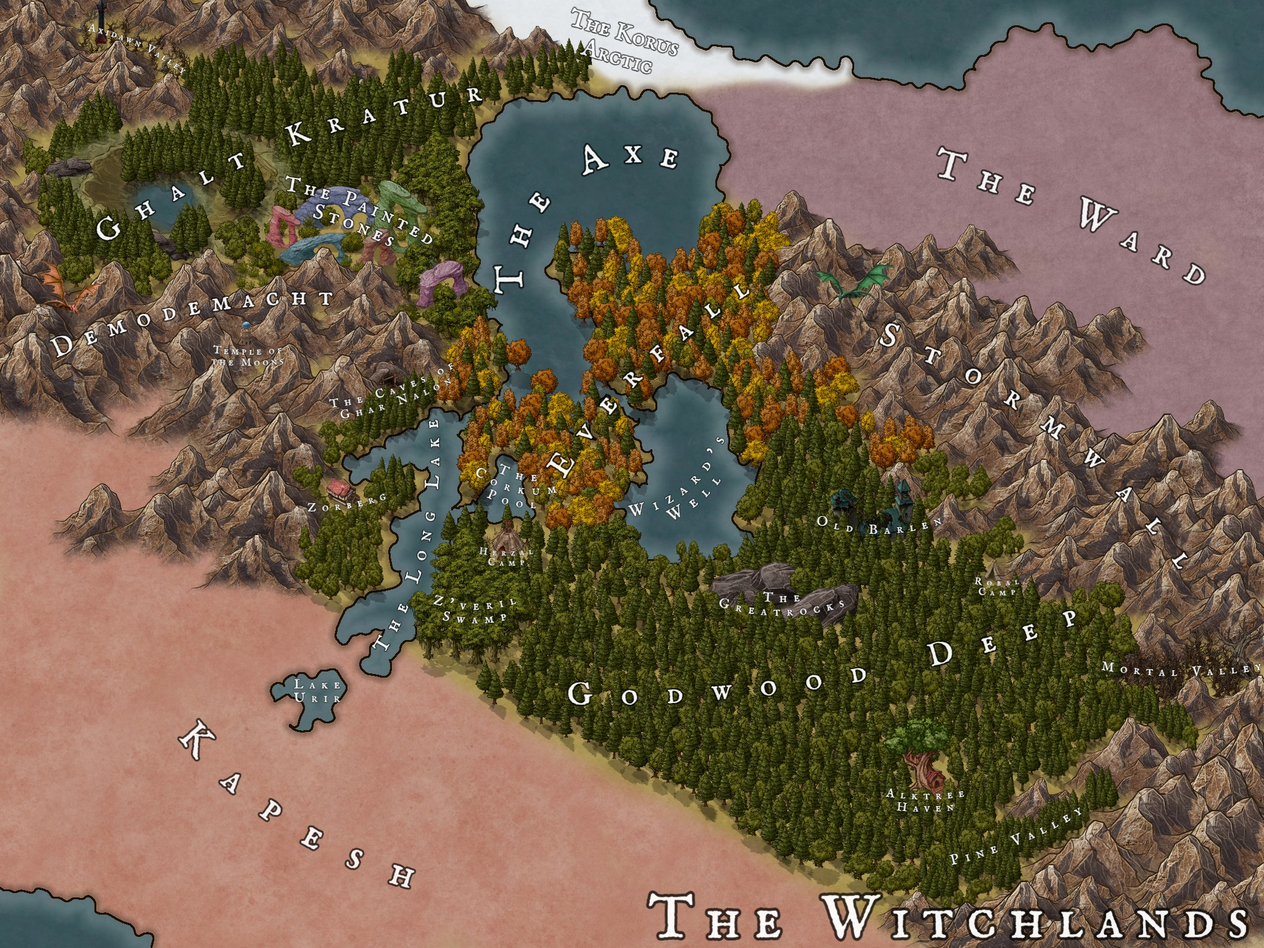
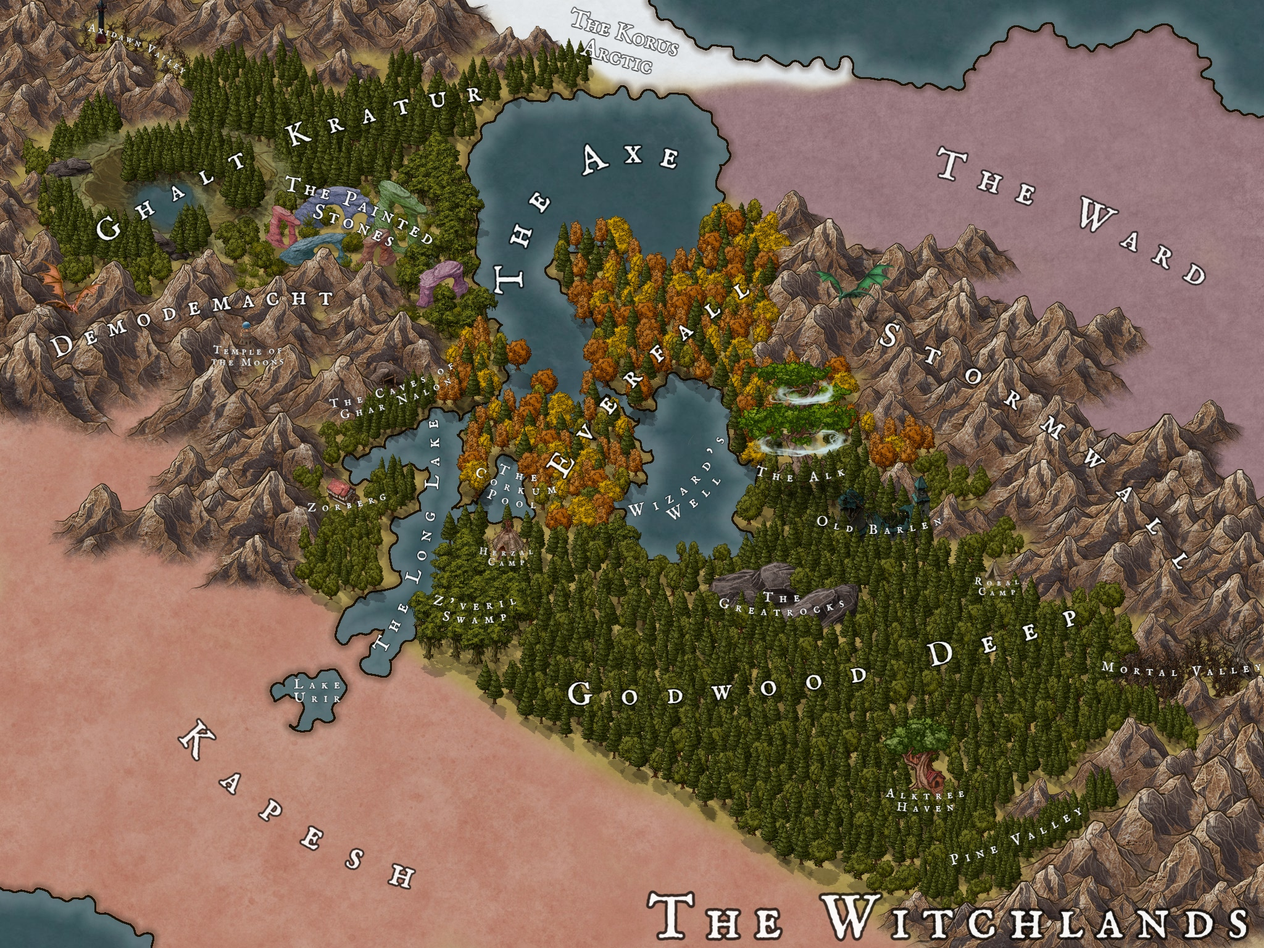
publishing new Zol content

Changed region(s): [[0.5625, 0.375, 0.75, 0.5625]]

diff --git a/content/Audran.md b/content/Audran.md
@@ -1,6 +1,90 @@
 ---
 title: "Audran"
----## The Destruction of Audran - The Day of Madness
+---*The City of Ruins, The Lost Capital Reborn*
+![[Audran skyline 1.png]]
+
+The largest city in all of [[Zol]]. [[Audran]] was once the prosperous capital of [[Laenwalde]]. Seen by all of [[Zol]] as a beacon of light and wonder. So large you could not walk from end to end in a day, not counting getting lost or stopping. Its wonderous empire stood proud for many generations, until one of the darkest days in [[Zol]]'s history: The Day of Madness.
+
+The Day of Madness was a sudden event that involved [[The Castle of Bodies]] suddenly attacking [[Audran]]. Until that point, no one even knew [[The Castle of Bodies]] existed. Its presence drove the vast majority of the city's people into a blood frenzy. People blindly fought, killed and destroyed anything they could. The whole event only lasted a short while, but wholly ruined the city and its people.
+
+The capital was abandoned, but slowly over time people returned and sought refuge in its ruins. Disorganized and ramshackle rebuilding began. Eventually it created a new and unique place where the great city once stood. It would never become the capital again, but is now home to a very rich, and diverse culture.
+
+![[audran.png]]
+
+One part ruined, one part rebuilt, one part ramshackle slum. The city is fast paced crowded, overpopulated, exciting, dangerous, and full of opportunity.
+
+## Overview
+| Aspect | Description |
+|-|-|
+| Main Opportunity | The city was re-founded by individuals who chose to make a new life in the ruins of what once was. It is a city by the people, and for the people. Despite the many attempts by the crown to instill order within [[Audran]], it remains chaotic and free. It is a place where anything, good or bad, can occur. |
+| Main Challenge | Governing the city is extremely difficult. Its ever sprawling, overcrowded streets make a perfect environment for crime and chaos. Straying where one should not within [[Audran]] is very dangerous. |
+| Climate | Temperate |
+| Cuisine | Cultivated Fruits, Farmed Goods, Flatbread and rice based meals |
+| Export | Investments, medicine, coffee, dyes, textiles, paper, books, and ink |
+| Size | Massive |
+| City Leader | High Lord Beld Bordana |
+| Primary Language(s) | Common |
+| Majority Racial Group(s) | None |
+| Majority Religion(s) | None |
+
+## Major Features
+| Feature | Description |
+|-|-|
+| Distinguishing Features | A massive lakeside city, textured with aged destruction that has been used as a foundation for new structure. |
+| Architecture | A ramshackle, half-destroyed city. New buildings of differing materials and styles have been erected using the ruins of the ancient destruction as foundations. Some buildings have a strange half old stone, half new lumber look. Others are entirely new, and many remain with entire sections missing. To accommodate the large population, tents and other makeshift structures can be found everywhere one can logically (and sometimes illogically) be placed. |
+| Color(s) | Purple, Grey, and Blue |
+| Symbolism | A tower with a window in the shape of an arched door |
+| Defenses | High walls |
+
+## People Groups
+| Group | Type | Description |
+|-|-|-|
+| Nobility | Social Class | The wealthy members of [[Audran]] society. However these nobles are not like nobility of other cities half made up of conventional nobles of good rapport, and half made up of eclectic individuals who made some great success in the city. These two types of nobles blend in court to create a fast paced, gossip-filled knot within society. |
+| Commoners | Social Class | The working class of the city. Poverty can move like waves through the fluid economy of the city. It is always a challenge for the common folk to keep their heads above water. |
+| Beggars | Social Class | Individuals who could not keep up with, or getting a foot hold within the city's merciless environment. Many beggars exist within the city. Life is hard and competitive amongst this class. |
+| Slaves | Social Class | Those charged with significant crimes who are forced to work and serve in recompense. |
+| Criminals | Criminal | A massive criminal network exits within the city. Many gangs, alliances, and rivalries fill the alleys of the city with violence and thievery. The underbelly of [[Audran]] is a world of its own, and must be traversed carefully. Its structure is nearly as complex and ever changing as its noble courts. Some of its major players are: The Roving Gang, The Tiefling Mafia, The Unruly, The Nakaza, and many more. |
+| Inquisitors | Law Enforcement | A class of highly trained individuals from [[The First Bastion]], sent to bring order to the city. These high ranking members of the city guard aim to clean up the streets and eliminate crime. However they have been at it for quite some time with little net change. |
+| Students | Academic Station | Students who attend [[Charenbridge]], an academic institution of the [[Arcanum]], a branch of [[The University]]. These individuals are known to come from all backgrounds (usually low born) as [[Charenbridge]] admits all students and does not charge tuition. |
+| Pedagogue | Academic Station | Staff who teach at [[Charenbridge]], an academic institution of the [[Arcanum]], a branch of [[The University]]. These individuals vary from practiced writers, to skilled and deadly [[Arcanists]]. |
+
+## Goods and Services
+| Name | Type | Description |
+|-|-|-|
+| Castle Defiance | Keep | The city's main keep |
+| Audran Station | Train Station | The city's train station |
+| Audran Convergence | Teleportation Circle | The city's main teleportation circle. Located within the keep. |
+| Upper District | Inner-walled District | An inner walled section of the city that has been entirely restored. Home to the highest degree of nobility, shops, and taverns. |
+| [[Charenbridge]] | College | An academic institution of [[The University]] that exists as the most well-known manifestation of the [[Arcanum]]. At this institution, anyone can obtain an education at no cost. However if they wish to have a long and fruitful academic career, they must perform well in their classes, and commit many hours of work to [[The University]]. Located in Charside, a district of the city nicknamed after the college. |
+| Pulp Markets | Market | A market frequented by students |
+| Port Squares | Market | The markets located closet to the lakeports |
+| Tent Alleys | Market | The many many markets located all over the city in narrow alleyways that sell things that would surprise even the [[Gods]]. |
+| The Upper Market | Market | The fine market located in the upper district |
+| Zalp's | Tavern | A tavern loved by many-a-student |
+| The Surviving Inn | Tavern | A tavern built in a structure that withstood The Day of Madness. Very beloved amongst commoners |
+| The Adorian | Tavern | A fine alehouse in the upper district where many skilled performers will attend |
+| Quiet Peter's | Tavern | A shady tavern located in the basement of a mostly ruined building in Catyard. Known as a sort of demilitarized zone amongst the local criminal groups where fighting of any sort is not allowed. |
+| The Dens | Tavern | A name for the many pop up tent based taverns one finds only in [[Audran]] |
+
+## Authority
+The city is ruled by High Lord Beld Bordana. A young dwarven ruler who many feel is incompetent. He is charged with taming the untamable city of [[Audran]]. Luckily for him he has the Inquisitors at his disposal.
+
+The crown does what it can to strike order within the city, but it is like herding cats. No matter the rules and efforts put into stilling the chaos, someone finds a way around it. Or if there isn't a way around it, they make one.
+
+In some parts of the city, the criminals are as much of a ruling force as the crown, if not more. It does citizens well to keep their noses clean in regards to both parties.
+
+### Laws
+The city subscribes to the [[Laenwalde Laws]].
+
+## Modern Importance
+In current day and age, the city is a massive place where anyone can slip away into. They will find some notch or corner they fit into within its wall. It may not be a good palace, but they will fit in somewhere.
+
+## Historical Importance
+Once the beacon of prosperity within The Three Corners, the city was struck with a horrible destruction during an event called The Day of Madness. 
+
+*For more information on this please read the below section named: The Destruction of Audran - The Day of Madness*
+
+## The Destruction of Audran - The Day of Madness
 In the late [[First Age]], [[Audran]] was the largest and most prosperous city in all of [[Zol]]. As the capital of [[Laenwalde]], it acted as a hub of commerce, politics, academia, and culture. This beacon of hope changed instantly when [[The Castle of Bodies]] suddenly appeared in the sky on The Day of Madness.
 
 Before the event, none knew of [[The Castle of Bodies]]' existence. One of the strange [[Void Gods]], with a particular goal of random destruction.
@@ -13,9 +97,9 @@ The heroes did all they could to wound the strange being, in a manner similar to
 
 Those who were driven mad by it suddenly regained their senses, but the damage had been done. In a matter of hours [[Audran]] was put to ruins. The memory of the event left the city with the brand of being cursed.
 
-The vast majority left the city, and it remained a ghost town for generations. However, most of its buildings were relatively intact, as [[The Castle of Bodies]]' efforts largely damaged the population directly. Eventually, the wounds turned to scars, people began to return to the city.
+The vast majority left the city, and it remained a ghost town for generations. However, a fair portion of its buildings were reasonably intact. Eventually, the wounds turned to scars, people began to return to the city.
 
-Originally only unorganized factions of bandits, forlorn, and nomads. As more people arrived a society naturally began to reform. Eventually the governing bodies of [[Laenwalde]] recognized it as a city once again.
+Originally only unorganized factions of bandits, forlorn, and nomads. As more people arrived a society naturally began to reform. After a few generations, the governing bodies of [[Laenwalde]] recognized it as a city once again.
 
 It had been rebuilt to a degree, Fallen down sections of stone walls were rebuilt with lumber, rubble piles were stacked and reused as building material, and waterways were cleared of pollutants.
 

diff --git a/content/Penthe.md b/content/Penthe.md
@@ -1,0 +1,80 @@
+---
+title: "Penthe"
+---*The Angel Blessed City of Glory
+![[Penthe skyline.png]]
+
+[[Penthe]] (pronounced *pen-thay*), is a city built to honor the [[Zolaen Gods]]. A home so beautiful, it has garnered the endorsement of [[Iyowne]], a powerful angel. Founded in the mid [[First Age]] by a group of devout warrior monks called [[The Undari]], [[Penthe]] is now a beautiful city located on the slopes of the Se'dir River Valley. It is the westmost city in all the Three Corners.
+
+![[penthe.png]]
+
+A powerful [[Iron Light]] pump moves water up from the Se'dir River to the city's highest point, where it then flows back down through constructed canals and waterfalls all throughout the area. This infrastructure gives much utility to the population of the city and their day to day operations. Of these operations, the most notable is [[The First Bastion]], a wing of the [[Observum]] where warriors of [[Laenwalde]] are trained to defend their kingdom, and uphold the will of the [[Zolaen Gods]].
+
+## Overview
+| Aspect | Description |
+|-|-|
+| Main Opportunity | The city is a valiant, holy, and beautiful place. Its churches and [[The First Bastion]] provide for all who are in need. The most skilled fighters of [[Laenwalde]]'s army are trained within the city. For those who are in the city's favor it is one of the safest places within [[Zol]]. |
+| Main Challenge | The city worships the [[Zolaen Gods]] to a degree that is borderline fanatical, this stems from the city's history and its association with [[The First Bastion]]. In its current society these shared beliefs create a community for those who hold them, but drives away anything else. Non-believers, sinners, or those who do not devote themselves well enough are shunned as outsiders. Myth and rumor paints a darker image where these outsiders are not only shunned, but culled. However there is little proof of this, and would depend heavily on the religious-political state of the city's leadership. |
+| Climate | Temperate/Dry |
+| Cuisine | Cultivated Fruits, Farmed Goods, Flatbread and rice based meals |
+| Export | Military Training |
+| Size | Medium |
+| City Leader | High Lord Draezus Wolf |
+| Primary Language(s) | Common |
+| Majority Racial Group(s) | None |
+| Majority Religion(s) | Zolaen-Centric |
+
+## Major Features
+| Feature | Description |
+|-|-|
+| Distinguishing Features | River valley, Inner-city canals and waterfalls |
+| Architecture | Very tall buildings, Archways, Banners, Stained-glass windows |
+| Color(s) | Purple, Grey, and Blue |
+| Symbolism | A vertical, point-down sword with an overarching curve from the far left of the hilt that goes up over the pommel and ends at the far right of the hilt. Forming the shape of a doorway with the curve and guard combined. |
+| Defenses | [[The First Bastion]], high walls, many patrols, heavy wall mounted artillery, airship fleet |
+
+## People Groups
+| Group | Type | Description |
+|-|-|-|
+| Commoners | Social Class | The working class of the city. The city has the one of the lowest percentages of uncared for citizens in all of [[Zol]] due to the resources provided by the churches and [[The First Bastion]] |
+| Nobility | Social Class | The cities upper-crust. Most of which sponsor the churches and [[The First Bastion]] by means of economic resources, or other types of power. |
+| The Shunned | Non Zolaen-Centric/Secular Group | Citizens who do not fit the ideals of the church. Members of society who are outcast by others for things like differing beliefs, partial devotion, or sins. Those who are shunned by the masses are rarely welcomed back into their previous circles. Even those close to one who has been deemed an outsider will be treated differently. |
+| The Devout | Religious (Zolaen-Centric) Group | Citizens who follow the Zolaen-Centric beliefs of the church very closely, or at least appear to from the outside view. This group makes up the vast majority of the population. |
+| Clergy | Religious group | Those who make a career of performing work for the church, or the more clerical aspects of [[The First Bastion]] |
+| [[The First Bastion]] | Military/Religious Guild | A devout, Zolaen-Centric group of trained warriors who fight under the banner of [[Laenwalde]] as the kingdom's most skilled warriors. Helmed by [[Blade Lord Kive Bidell]]. The institution's aim is to train powerful warriors and clerics to defend and uphold the kingdom and the will of the [[Zolaen Gods]]. The guild exists as a branch of the [[Observum]] under the umbrella of [[The University]]. |
+
+## Goods and Services
+ | Name | Type | Description |
+ |-|-|-|
+ | Cliffkeep | Keep | The city's keep, located on a large rock outcropping on the valley's southern slope. |
+ | Penthe Station | Train Station | The city's train station |
+ | Penthe Convergence | Teleportation Circle | The city's main teleportation circle, located on the grounds of Cliffkeep |
+ | Bastion Convergence | Teleportation Circle | [[The First Bastion]]'s teleportation circle |
+ | Highsquare | Market | The city's nicest market for the wealthiest individuals. Located next to Cliff keep at the city's highest peak upon its horn-shaped outcropping. It is also the location of the [[Iron Light]] pump which sends water flowing down all through out the city |
+ | The Ivy Markets | Market | The city's more common markets. The various markets, divided by good sold are located within Ivy Gate |
+ | Iyowne's Pressing | Tavern | A tavern frequented by the nobility of the city. Said to be located nearest to the visitation point of the angel [[Iyowne]] |
+ | Khalborit's Alehouse | Tavern | An Alehouse popular with Devout commoners of the city. Located within Smokepole |
+ | Cottonheath Inn | Tavern | A small and dingy inn, frequented by the shunned member's of the city's society. Music and conversation does not frequent this place like the other taverns of the city. Located at the rivers edge in Cottonheath. |
+ | [[The First Bastion]] | Guild | A valiant structure of golden, swirling adornment detailing and white stone. Located at the center of Victory. |
+
+## Authority
+The city is under rule of High Lord Draezus Wolf and his council. The city is known for respecting the crown of [[Laenwalde]] so truly and honorably, there are rhymes and jokes written about it.
+
+Second to the High Lord, is [[Blade Lord Kive Bidell]]. The Blade Lord is leader of [[The First Bastion]]. The Blade Lord responds only to the command of High Lords and the King himself.
+
+Beyond that, rank within the church is just as seriously as government rank. If a priest were to command something of you, it would be the same as if an officer were to. However you would have no *legal* precedent to follow it, just a serious societal on.
+
+### Laws
+The city subscribes to the [[Laenwalde Laws]].
+
+## Modern Importance
+In modern day, much of [[The University]]'s operations concerning the [[Observum]] occur within the city. [[The First Bastion]] focuses much of its resources on training adept fighters to venture out into [[Laenwalde]] and the world beyond to act on behalf of the King and the [[Zolaen Gods]].
+
+## Historical Importance
+When the city was originally founded by [[The Undari]], it was a place where martial skill was of great cultural importance. This ideal has transformed over time along with teaching of Zolaen-Centric beliefs to form a very devout people.
+
+So devout, it garnered the attention of [[Iyowne]], a powerful angel of [[The Watcher]]. In the late [[First Age]], the angel visited the city during sunset. He spoke well of the peoples devotion, and told them their city exemplified the ideals [[The Watcher]] aimed to instill all across [[Zol]]. Those who witnessed [[Iyowne]] we granted high station within the church.
+
+While some doubt the event ever taking place, its effect in the city's culture has remained strong event to modern day. The people of [[Penthe]] conserve old beliefs in an aim to stay true in the eyes of the [[Gods]].
+
+## Other Things of Note
+- The people of the city depend very little upon [[Apparatum]] and other magical objects. This is due to a widely held belief that those sorts of proclivities are not needed when one is cared for by the gods. Many generations ago they were outlawed, but convenience and abundance has eroded away those principals. Now most commoners will use them when necessary, and nobility tend to employ whatever they deem fit. The secondary effect to this is it is difficult to purchase things of this nature in the city. One is better of catching a train to [[Ryze]].

diff --git a/content/Laenwalde.md b/content/Laenwalde.md
@@ -2,24 +2,24 @@
 title: "Laenwalde"
 ---![[Laenwalde.jpg]]
 
-The Unified Kingdoms of the West. The largest political power in all of [[Zol]]. Laenwalde is a kingdom formed of the island of [[Arcadia]], the green hills of [[Eucaren]], and the mysterious sands of [[Saen]].
+The Unified Kingdoms of the West. The largest political power in all of [[Zol]]. Laenwalde is a kingdom formed of the island of [[Arcadia]], the green hills of [[Eucaren]], and the mysterious sands of [[Saen]]. These three regions are bound by code, trade, and military ties. However their citizens do not necessarily see their neighboring regions as *friends*. 
 
-## Cities
+## Regions and Cities
 Laenwalde is comprised of the three unified Kingdoms 
-- **Arcadia**
+- **Arcadia** - A proud island that has a culture deeply seated in military strength, heroism, and worship of the [[Zolaen Gods]].
 	- [[Audran]] - The Ruin City
 	- [[Penthe]] - The City of Glory
 	- [[Ryze]] - The Tower City
-- **Eucaren**
+- **Eucaren** - A pragmatic and communal people who live on the distant coasts of their lush, green, and peaceful slice of the world.
 	- [[Kahdinacht]] - Wine and Luxury
 	- [[Woogis]] - Slow Country Life
 	- [[Reach Run]] - The Central Hub of [[Airships]]
-- **Saen**
+- **Saen** - A gritty and toughened people of the dangerous desert. The people of Saen are those who have not given up the ancient ways of the Badlands.
 	- [[Kosskazoka]] - The Neon City
 	- [[Diddan]] - The Wild West
-	- [[Rockfire]] - The Volcanic City
+	- [[Rockfire]] - The Volcanic Oasis
 
-As well as a shared capital, The Floating City of [[Heliodor]] and its terrestrial sister settlement, [[Nerousea Station]].
+As well as a shared capital, The Floating City of [[Heliodor]] and its terrestrial sister settlement, [[Nerousea Station]] which is located in Eucaren.
 
 ## Wilderness and Climate
 Each of Laenwalde's three regions has its own natural landscape that differs from its neighbors
@@ -45,12 +45,12 @@ The people of each region are stereotyped as follows:
 - **Arcadia** - Thought to be an overly proud and patriotic people. Those who hail from the island think that Arcadia is the 'true' heart of the kingdom as it is where the capital was once from and now homes the strongest military in [[Zol]].
 - **Eucaren** - Thought to be a soft and laid back people. The disproportionate population of [[Halflings]], finest alcohols, and proportionally safest wilderness in all of [[Zol]].
 - **Saen** - Thought to be a rough around the edges people. Gruff gun slinging westerners, dirty beggars of the neon city, or religious devotees of the volcanic temples. 
-The different groups all coexist, but do tend to have a great deal of prejudice. However the people of Eucaren are seen as extremely friendly and unproblematic all across [[Zol]]. They are typically welcomed anywhere.
+The different groups manage a begrudging coexistence, with a great deal of prejudice. Eucaren tends to be a sort of exception here. Its people are seen as simple, but extremely friendly. They are considered unproblematic all across [[Zol]]. They are typically welcomed anywhere.
 
 ## Government, Economy, and Laws
 Laenwalde is ruled by [[King Tatelak II]] and his advisory council. This rule is conducted from the floating city of [[Heliodor]]. The instilment of [[King Tatelak II]] upon his throne in the flying city was done as an effort to rekindle the hope people once had for [[Laenwalde]]. However many feel there is a disconnect between the crown and its people. They were ruled by a council for so long and now feel that they are under the foot of a distant leader. The King's disposition is well intentioned, but in reality he is inexperienced and it has been a large change for [[Laenwalde]].
 
-Laenwalde's economy is quite self sufficient, the kingdom is large enough to provide all resources they reasonably require. There is a fair deal of trade of rare imports and exports from the east.
+Laenwalde's economy is quite self sufficient when it needs to be, the kingdom is large enough to provide all resources they reasonably require. However there is a fair deal of trade of rare imports and exports from the east.
 
 The [[Laenwalde Laws]] are consistent across all regions. This is good for maintaining order, but difficult for some as many feel that the laws should not be enforced as a wide net for all the regions and their cities. They instead push for each region having its own set of laws.
 

diff --git a/content/Disclaimer.md b/content/Disclaimer.md
@@ -3,7 +3,11 @@ title: "Disclaimer"
 ---This is a fantasy world I originally created for hobbyist purposes. Primarily as a TTRPG campaign setting.
 
 Things to note:
+- The main concept I wanted to play with when writing the world of [[Zol]] is *agency*. For a common person in [[Zol]], life is very dangerous. There are many forces, gods monsters, and people who are much more powerful than the average individual. For most people, the main challenge in their life is to achieve some sort of agency so they can make a life for themselves. This is a great challenge in [[Zol]] as the world is extremely dangerous, and there are many political and social challenges.
 - This collection of information was written as if it was from the perspective of an academic within [[Zol]]. With a few tid-bits of information added that would not necessarily be known by the people of [[Zol]] for the sake of storytelling. This means that almost all of the information in here could be known by a really really smart person, except for somethings like specific details to world creation lore that would have been lost to history.
 - There are gaps intentionally left for the sake of speculation, and creative addition for anyone using this for their own purposes (Ex: TTRPGs).
-- The world is provided in a way where there are many locations, characters, histories, et cetera. [[Zol]] is meant to be added to beyond that of the material here. If I were going to write a TTRPG campaign in [[Zol]], I would create 70% of the things that are going to go within it and use this as a skeleton for the story.
-- In [[Zol]] there is no gender or sexual discriminations of any kind in its cultural history. However there is the inclusion of racial and religious discrimination. This is done for narrative device only. The discrimination is between fictional species of humanoid races and is not based on things like hair, skin, eyes, or anything else that would reflect a more real-world scenario. **In the case of [[Zol]] if there is a racist character they are ALWAYS meant to be a villain**. There are no exceptions. 
+- The world is provided in a way where there are many locations, characters, historical accounts, and other things of the like, however it is not meant to give one everything that they would need for something like a TTRPG campaign. [[Zol]] is meant to be added to beyond that of the material here. If I were going to write a TTRPG campaign in [[Zol]], I would create 70-80% of the things that are going to go within it and use this as a skeleton for the story.
+- Controversial topics within [[Zol]]
+	- In [[Zol]] there is no gender or sexual discriminations of any kind in its cultural history. However there is the inclusion of racial and religious discrimination. This is done for narrative device only. The discrimination is between fictional species of humanoid races and fictional religions and is not based on things like hair, skin, eyes, or anything else that would reflect a more real-world scenario. **In the case of [[Zol]] if there is a racist character, or one who would suppress religious freedoms, they are ALWAYS meant to be a villain**. There are no exceptions. 
+	- In addition to racial discrimination, there is also [[Slavery]] within [[Zol]]. It is meant to be viewed within the same lens as racism, where slave owners, or other characters who perpetuate [[Slavery]] are **always** to be considered villains. The inclusion of such an inhumane practice is done with the intention of highlighting the vast differences of agency individuals have in [[Zol]].
+	- There are allusions to modern day Christianity with topics like [[The Trinity]] being a major part of [[Zol]]. I personally am an atheist who grew up in a Christian house hold. I used the religious frameworks I was exposed to as a child to create a world where characters can explore the concept of agency and religion in a way where I felt like I could do it justice. There are parts of [[Zol]] that may seem very pro-religion or anti-religion. I am in no way aiming to make a statement of the rightness or wrongness of modern day Christianity with [[Zol]]. I personally aim to illustrate the wrongness of suppression of personal freedoms or beliefs through religion.

diff --git a/content/The Witchlands.md b/content/The Witchlands.md
@@ -12,7 +12,8 @@ The region is taken by naturalists, wildly beastfolk, bandits, outsiders, wizard
 
 ## Points of Interest
 - **Godwood Deep** - The deepest extent of the largest forest in all of [[Zol]], The Godwood, which spans [[The Free Cities of Alderun]], [[Kapesh]], and [[The Witchlands]]. Famously dangerous, the Godwood is sometimes referred to as 'the inside edge of the map' as it is largely unexplored and new things are constantly discovered within it.
-	- **[[The Alktree Haven]]** - A remote convent of like-minded individuals who seek refuge within [[The Witchlands]] 
+	- **The Alk** - A grand and ancient tree. It is the eldest of its magical, endangered species. The tree emits a protective ward over its local region. Other Alktrees exist throughout the region, however they are extremely rare. Their roots descend remarkably deep into [[The Underdark]]. Their wood is said to bring good luck, and almost seems to glow in moonlight. The heartwood of the tree is much stronger than most metals, and is revered in the art of [[Imbuement Perpetuum]]. Some believe the Alktrees are tied to [[The Great Wall of Roots]], but this is mostly based upon folklore. This tree acts as the meeting place for [[The Coven]].
+	- **[[The Alktree Haven]]** - A remote convent of like-minded individuals who seek refuge within [[The Witchlands]]. Built under the protection of a juvenile Alktree.
 	- **The Greatrocks** - A collection of massive boulders located in the very center of [[The Witchlands]].
 	- **Old Barlen** - A collection of old ruined buildings mysteriously located within Godwood Deep. Not quite a town itself, but almost like a chunk of an old forgotten city. No one knows its origin, but it was discovered during The [[Beast Ire]] Plague. A nest of monsters to be avoided at all costs.
 	- **Pine Valley** - A beautiful valley populated by many [[Beastfolk]]
@@ -22,7 +23,7 @@ The region is taken by naturalists, wildly beastfolk, bandits, outsiders, wizard
 - [[Stormwall]]
 	- **Mortal Valley** - A cursed place known to be inhabited by Death [[Witches]].
 - [[Demodemacht]]
-	- **Zorberg** - A tiny, out of place village tucked into the foothills of [[Demodemacht]]. This quaint town is kept safe by the [[Great Hearth Witch Luna Elzamore]]. It is home to the broken outcasts of society she has taken into her care.
+	- **[[Zorberg]]** - A tiny, out of place village tucked into the foothills of [[Demodemacht]]. This quaint town is kept safe by the [[Great Hearth Witch Luna Elzamore]]. It is home to the broken outcasts of society she has taken into her care.
 	- **The Caverns of Ghar Nalon** - A complex cave system that goes deep beneath [[Zol]].
 	- **Temple of the Moons** - A mysterious temple located within the peaks of [[Demodemacht]]. Inhabited by the infamous Sex [[Witches]]. Strangely, even if you know the way to this temple, you can only arrive at dawn. Otherwise it is hidden to any who seek it.
 	- **Axidawn Valley** - The furthest north reaches of [[The Witchlands]]. Tucked into the mountains this valley is home to [[The Cult of the Mothers]]. It is said to be an absurd, and treacherous place.

diff --git a/content/Ryze.md b/content/Ryze.md
@@ -1,0 +1,3 @@
+---
+title: "Ryze"
+---![[ryze skyline.png]]
